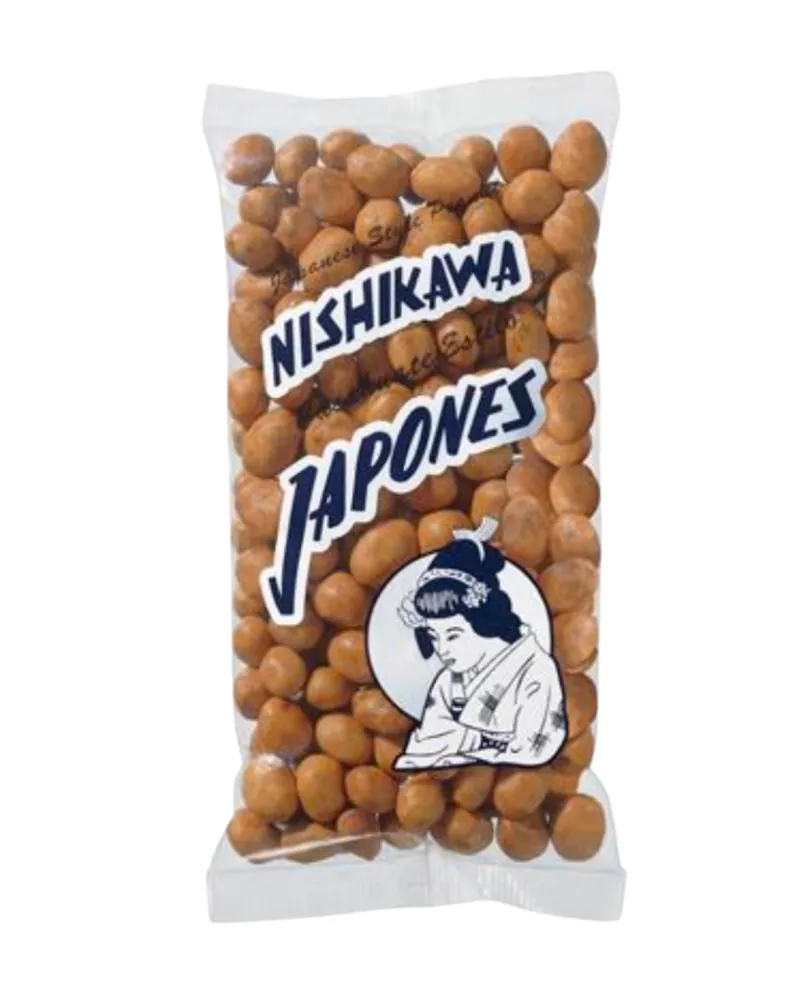
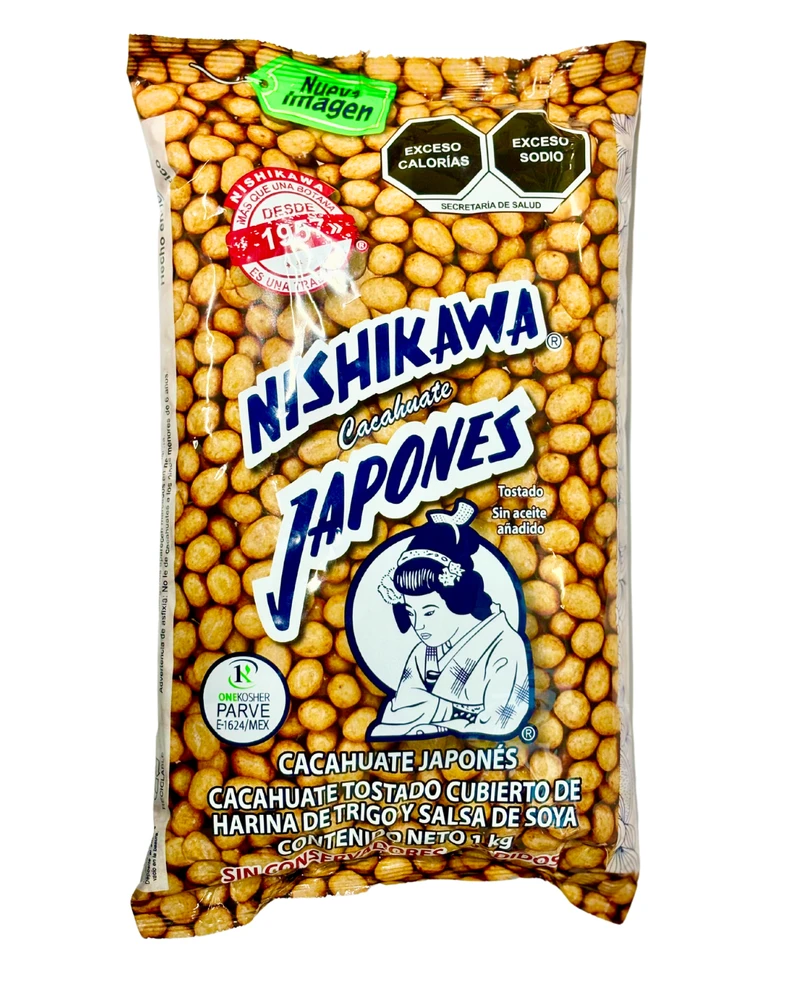
Completar la foto de los 227 productos y auditarlos contra el catálogo
Auditoría marca por marca de las 36 contra las 78 páginas de CAT.NITAMY.pdf.
Los 227 productos quedan con imagen: eran 161. Cero referencias rotas.

UNA FOTO MAL ASIGNADA, QUE LLEVABA EN PRODUCCIÓN DESDE EL SCRAPE.
`miguelito/raqueta-tamarindo.webp` no era una raqueta: contenía un display de
Chochi Boys (chochitos acidulados, 660 g). Lo destapó la hoja de contacto de
las 48 fotos de la marca, donde las otras tres raquetas son bolsa con paleta
redonda y esa era un bote de popotes. Sustituida por el recorte de la p. 27,
que además imprime "40 piezas de 20 g" y confirma la presentación.

Y otra que no era la que decía: `nishikawa/japones-1-kg.webp` mostraba una
bolsa SIN el peso impreso. El sitio anterior del cliente trae DOS fotos
tituladas "Japonés 1 Kilo" y en agosto se conservó la equivocada. La buena
dice "CONTENIDO NETO 1 kg" y coincide con la bolsa de la p. 6.

TRES CORRECCIONES DE TEXTO:

- Nishikawa, Japonés 80 g exclusivo: le faltaban los sobres de salsa. La p. 9
  declara "SOBRES INCLUIDOS POR CADA BOLSA" para toda la línea EXCLUSIVO y la
  etiqueta imprime "+10 Sobrecitos GRATIS"; los otros siete sí los mencionaban.
- Jovy, Mini Gummi Bears: "aproximadamente 25 piezas" pasa a "25 + 2 piezas".
  La aritmética lo confirma: 27 x 15 g = los 405 g por bolsa que declara la
  misma ficha, x 10 bolsas = 4.05 kg por caja.
- Sandy: su única foto estaba traspapelada en la carpeta de Dulces Guaz. Lleva
  la firma "Sandy" en la propia imagen y es la misma que usa el catálogo.
[…]

diff --git a/public/ASSETS.md b/public/ASSETS.md
@@ -121,6 +121,19 @@ Tres marcas no siguen la regla y se resolvieron a mano:
 
 - **Nishikawa** tiene 25 fotos para 24 productos. La de más es el duplicado de
   "Japonés 1 kg" que se borró, y va al final, así que no desalinea nada.
+
+  🔴 **7 sep 2026: la decisión de arriba estaba al revés.** El sitio anterior
+  trae DOS fotos tituladas "Japonés 1 Kilo" (índices 11 y 24 de esa marca). El
+  23 de agosto se conservó la primera (índice 11) por ser la que aparecía
+  antes en el orden, y se descartó la última por "duplicado". Pero la del
+  índice 11 es una bolsa SIN el peso impreso, sin sellos NOM-051 ni el sello
+  rojo "Desde 1957" — un diseño de empaque más viejo que no corresponde a
+  ningún producto vigente. La del índice 24 sí dice "CONTENIDO NETO 1 kg" en
+  el empaque y coincide con la bolsa de 1 kg de `CAT.NITAMY.pdf` (p. 6):
+  bolsa grande transparente, cacahuate visible, octágonos de exceso y el
+  sello de 1957. Se corrigió: `japones-1-kg.webp` ahora es la del índice 24.
+  El orden posicional del scrape no siempre es la señal correcta; el texto
+  impreso en el propio empaque sí lo es.
 - **Tama-Roca** se había reconstruido desde el catálogo en OTRO orden, así que
   la posición no sirve. Solo se tomó "Banderilla a granel" (índice 6).
 - **Miguelito** tenía 48 fotos para 47 productos, y la de más estaba EN MEDIO
@@ -133,6 +146,25 @@ Tres son presentaciones de Tama-Roca que solo están en el catálogo (banderilla
 en display, palebola y pellizco a granel) y dos son de Productos Rivera, cuya
 página del sitio anterior da 404. Las imágenes del catálogo llegan a 288px como
 mucho y desentonarían al lado de las de 800.
+
+### 🟡 7 sep 2026: tres fotos de Nishikawa SÍ salen del catálogo, a propósito
+
+`Japonés 195 g`, `Japonés 120 g` (35 piezas) y `Japonés 55 g` no existen en el
+sitio anterior — nunca se fotografiaron ahí, ni con otro nombre: son líneas
+del catálogo (p. 7) que el sitio viejo no vendía. Sin ellas, esos tres
+productos se quedaban sin imagen desde que se capturaron del PDF el 1 sep.
+
+Manolo pidió resolverlo aunque la única fuente sea el catálogo (~130-460 px de
+origen, muy por debajo del estándar de 800×1000 del resto de la marca). Se
+recortaron de un render a 400 dpi de la p. 7, se ajustó el marco al empaque y
+se aplicó un afilado ligero para compensar el desenfoque de la ampliación.
+`japones-195-gr.webp` y `japones-120-gr-35pzs.webp` quedan legibles a tamaño
+de tarjeta; `japones-55-gr.webp` es la más comprometida porque su recorte de
+origen es el más pequeño de los tres (~132×241 px) y se nota borrosa de cerca.
+
+Es la ÚNICA excepción a la regla de "nunca se publica una foto del catálogo":
+el cliente prefirió tener algo a dejar la ficha vacía. Si algún día llega una
+foto real de estas tres presentaciones, hay que reemplazarlas sin dudarlo.
 
 ### La regla que queda
 
